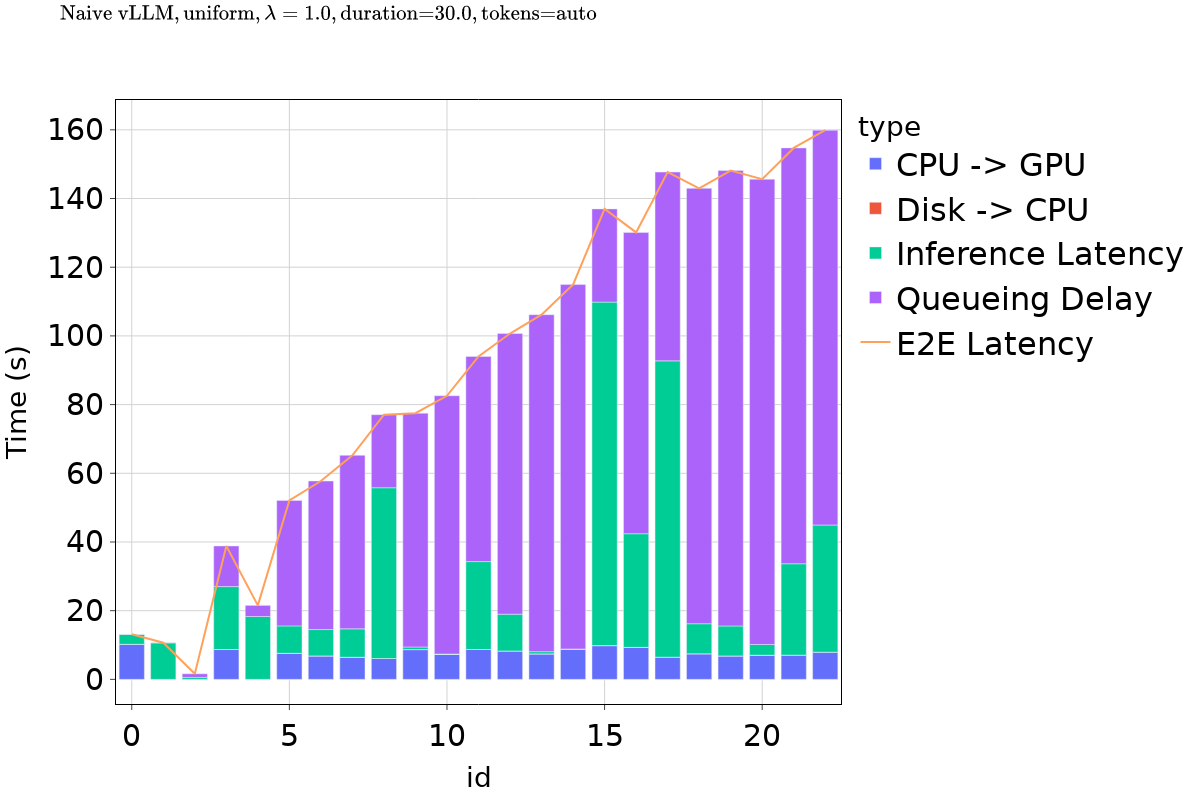
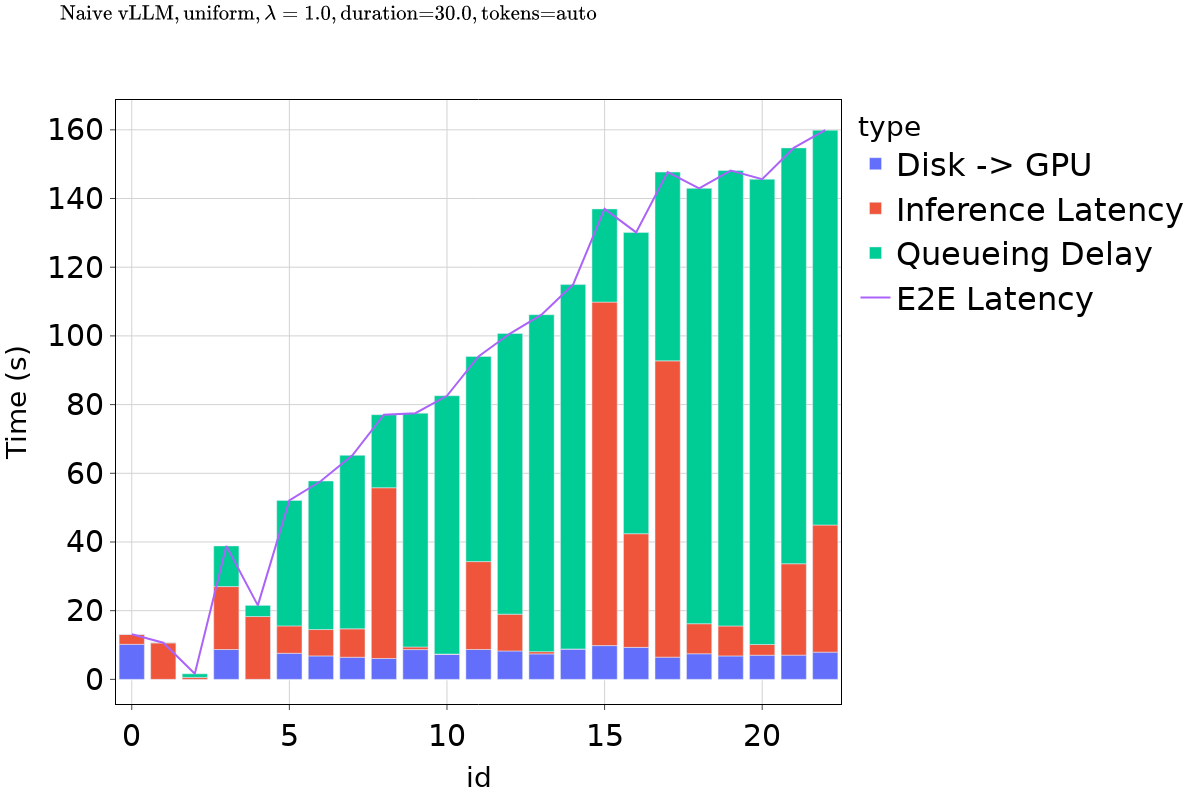
minor

Changed region(s): [[0.0925, 0.1562, 0.9867, 0.875], [0.74, 0.1875, 0.925, 0.2188]]

diff --git a/.artifact/benchmarks/tools/plot/utils.py b/.artifact/benchmarks/tools/plot/utils.py
@@ -132,15 +132,7 @@ def parse_swap(data):
                 "id": id,
                 "model": x["response"]["model"],
                 "time": gpu_loading_time,
-                "type": "CPU -> GPU",
-            }
-        )
-        results.append(
-            {
-                "id": id,
-                "model": x["response"]["model"],
-                "time": cpu_loading_time,
-                "type": "Disk -> CPU",
+                "type": "Disk -> GPU",
             }
         )
         results.append(
@@ -159,7 +151,6 @@ def parse_swap(data):
                 "type": "Queueing Delay",
             }
         )
-
     return results
 
 
